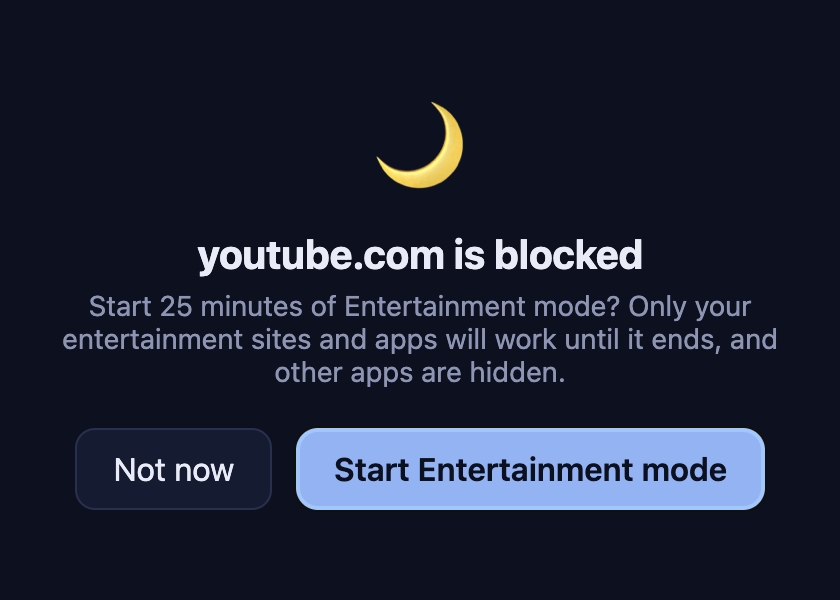
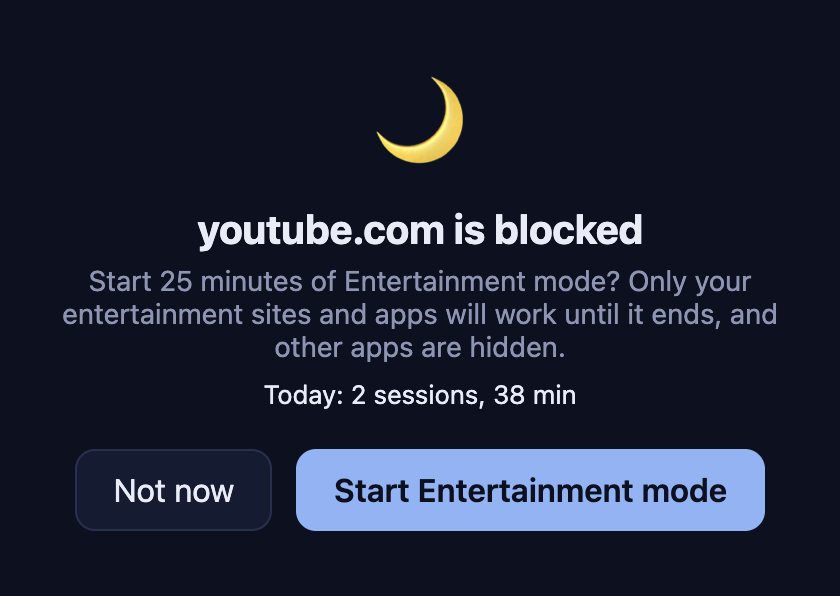
feat: show today's Entertainment mode stats in its window
Logs each Entertainment mode session (today only, trimmed when ended early) and shows
today's session count and minutes in the offer and notice windows. Version 1.7.0.

diff --git a/src/main.js b/src/main.js
@@ -66,6 +66,7 @@ let state = {
   pomodoro: null,
   pomodoroSummary: null,
   pomodoroLog: [],
+  sessionLog: [],
 };
 let history = [];
 let attempts = unlock.NO_FAILURES;
@@ -537,7 +538,7 @@ const showBlockedWindow = (query) => {
   blockedWindow?.destroy();
   blockedWindow = new BrowserWindow({
     width: 420,
-    height: 300,
+    height: 330,
     title: 'Focus',
     resizable: false,
     minimizable: false,
@@ -552,10 +553,21 @@ const showBlockedWindow = (query) => {
   app.focus({ steal: true });
 };
 
+const sessionStatsQuery = () => {
+  const { sessions, minutes } = blocklist.sessionStats(state.sessionLog, Date.now());
+  return { todaySessions: String(sessions), todayMinutes: String(minutes) };
+};
+
 const offerSession = (name, appPath = null) => {
   if (name !== blocklist.KID_SITE) {
     sessionOffer = { kind: 'session', appPath };
-    showBlockedWindow({ kind: 'offer', mode: 'session', name, minutes: String(blocklist.SESSION_MS / 60000) });
+    showBlockedWindow({
+      kind: 'offer',
+      mode: 'session',
+      name,
+      minutes: String(blocklist.SESSION_MS / 60000),
+      ...sessionStatsQuery(),
+    });
   } else if (blocklist.kidModeAvailable(new Date(), state.kidUsedAt)) {
     sessionOffer = { kind: 'kid', appPath };
     showBlockedWindow({ kind: 'offer', mode: 'kid', name, minutes: String(blocklist.KID_SESSION_MS / 60000) });
@@ -572,7 +584,9 @@ const startSession = () => {
   updateState({
     sessionUntil: now + durationMs,
     sessionKind: kind,
-    ...(kind === 'kid' ? { kidUsedAt: now } : {}),
+    ...(kind === 'kid'
+      ? { kidUsedAt: now }
+      : { sessionLog: blocklist.logSession(state.sessionLog, now, now + durationMs) }),
   });
   if (appPath) run('open', [appPath]).catch(() => {});
   sessionOffer = null;
@@ -581,7 +595,7 @@ const startSession = () => {
 
 const endSession = () => {
   const kid = isKidSession();
-  updateState({ sessionUntil: 0 });
+  updateState({ sessionUntil: 0, ...(kid ? {} : { sessionLog: blocklist.endSessionLog(state.sessionLog, Date.now()) }) });
   offersPaused = true;
   notify(kid ? 'Kid mode is over for today.' : 'Entertainment mode is over. Your entertainment sites and apps are blocked again.');
   tick();
@@ -602,7 +616,12 @@ const hideOtherApps = async () => {
   if (!hidden.length) return;
   updateState({ hiddenApps: [...new Set([...state.hiddenApps, ...hidden])] });
   const minutes = blocklist.sessionMinutesLeft(Date.now(), state.sessionUntil);
-  showBlockedWindow({ kind: 'notice', mode: state.sessionKind, minutes: String(minutes) });
+  showBlockedWindow({
+    kind: 'notice',
+    mode: state.sessionKind,
+    minutes: String(minutes),
+    ...(isKidSession() ? {} : sessionStatsQuery()),
+  });
 };
 
 // Each browser asks once for Automation permission; until it is granted the script fails and is skipped.

diff --git a/test/blocklist.test.js b/test/blocklist.test.js
@@ -17,6 +17,9 @@ const {
   isSessionActive,
   kidModeAvailable,
   sessionMinutesLeft,
+  logSession,
+  endSessionLog,
+  sessionStats,
   runningApps,
   blockedProcesses,
   runningBrowsers,
@@ -278,3 +281,19 @@ test('unhideAppsScript unhides only the named apps that are still hidden', () =>
   assert.deepEqual(apps.map((a) => a.hidden), [false, true, false]);
 });
 
+
+test('session log keeps today, trims early ends and sums minutes used', () => {
+  const at = (day, hour, minute = 0) => new Date(2026, 9, day, hour, minute).getTime();
+  const yesterday = logSession([], at(24, 21), at(24, 21, 25));
+  const log = logSession(yesterday, at(25, 10), at(25, 10, 25));
+  assert.deepEqual(log, [{ start: at(25, 10), end: at(25, 10, 25) }]);
+
+  const ended = endSessionLog(log, at(25, 10, 10));
+  assert.deepEqual(ended, [{ start: at(25, 10), end: at(25, 10, 10) }]);
+  assert.deepEqual(endSessionLog(log, at(25, 11)), log);
+
+  const withActive = logSession(ended, at(25, 12), at(25, 12, 25));
+  assert.deepEqual(sessionStats(withActive, at(25, 12, 5)), { sessions: 2, minutes: 15 });
+  assert.deepEqual(sessionStats(withActive, at(26, 9)), { sessions: 0, minutes: 0 });
+  assert.deepEqual(sessionStats([], at(25, 9)), { sessions: 0, minutes: 0 });
+});

diff --git a/src/blocklist.js b/src/blocklist.js
@@ -123,6 +123,19 @@ const kidModeAvailable = (now, kidUsedAt) => !kidUsedAt || new Date(kidUsedAt).t
 
 const sessionMinutesLeft = (now, sessionUntil) => Math.max(0, Math.ceil((sessionUntil - now) / 60000));
 
+const sameDay = (a, b) => new Date(a).toDateString() === new Date(b).toDateString();
+
+const logSession = (log, start, end) => [...log.filter((entry) => sameDay(entry.start, start)), { start, end }];
+
+const endSessionLog = (log, now) =>
+  log.map((entry, i) => (i === log.length - 1 ? { ...entry, end: Math.min(entry.end, now) } : entry));
+
+const sessionStats = (log, now) => {
+  const today = log.filter((entry) => sameDay(entry.start, now));
+  const usedMs = today.reduce((sum, entry) => sum + Math.max(0, Math.min(entry.end, now) - entry.start), 0);
+  return { sessions: today.length, minutes: Math.round(usedMs / 60000) };
+};
+
 const runningApps = (psOutput) =>
   psOutput
     .split('\n')
@@ -247,6 +260,9 @@ module.exports = {
   isSessionActive,
   kidModeAvailable,
   sessionMinutesLeft,
+  logSession,
+  endSessionLog,
+  sessionStats,
   runningApps,
   blockedProcesses,
   runningBrowsers,

diff --git a/test/config.test.js b/test/config.test.js
@@ -205,6 +205,7 @@ test('store round-trips config, state and history', () => {
     pomodoro: null,
     pomodoroSummary: null,
     pomodoroLog: [],
+    sessionLog: [],
   });
   assert.deepEqual(store.loadHistory(), []);
   store.saveHistory([{ type: 'grace', at: 1 }]);
@@ -213,7 +214,7 @@ test('store round-trips config, state and history', () => {
   store.saveConfig(configured());
   assert.deepEqual(store.loadConfig(), configured());
 
-  const saved = { bypassUntil: 123, graceUsedAt: 45, trackingSince: 6, sessionUntil: 7, sessionKind: 'kid', kidUsedAt: 8, hiddenApps: ['Notes'], pomodoro: null, pomodoroSummary: null, pomodoroLog: [] };
+  const saved = { bypassUntil: 123, graceUsedAt: 45, trackingSince: 6, sessionUntil: 7, sessionKind: 'kid', kidUsedAt: 8, hiddenApps: ['Notes'], pomodoro: null, pomodoroSummary: null, pomodoroLog: [], sessionLog: [] };
   store.saveState(saved);
   assert.deepEqual(store.loadState(), saved);
   fs.rmSync(dir, { recursive: true });

diff --git a/src/renderer/blocked.js b/src/renderer/blocked.js
@@ -17,6 +17,15 @@ document.getElementById('start').textContent = kid ? 'Start Kid mode' : 'Start E
 document.getElementById('notice-title').textContent = kid ? 'Kid mode' : 'Entertainment mode';
 document.getElementById('notice-text').textContent = noticeText;
 
+if (!kid && params.has('todaySessions')) {
+  const sessions = Number(params.get('todaySessions'));
+  const plural = sessions === 1 ? 'session' : 'sessions';
+  document.querySelectorAll('.stats').forEach((el) => {
+    el.textContent = `Today: ${sessions} ${plural}, ${params.get('todayMinutes')} min`;
+    el.classList.remove('hidden');
+  });
+}
+
 document.getElementById('not-now').addEventListener('click', () => window.close());
 document.querySelectorAll('.close').forEach((button) => button.addEventListener('click', () => window.close()));
 document.getElementById('start').addEventListener('click', async () => {

diff --git a/src/renderer/blocked.html b/src/renderer/blocked.html
@@ -12,6 +12,7 @@
       <section class="hidden" id="offer">
         <h1><span class="name"></span> is blocked</h1>
         <p class="muted" id="offer-text"></p>
+        <p class="stats hidden"></p>
         <div class="actions">
           <button type="button" id="not-now">Not now</button>
           <button type="button" class="primary" id="start" autofocus></button>
@@ -20,6 +21,7 @@
       <section class="hidden" id="notice">
         <h1 id="notice-title"></h1>
         <p class="muted" id="notice-text"></p>
+        <p class="stats hidden"></p>
         <button type="button" class="primary close">OK</button>
       </section>
       <section class="hidden" id="used">

diff --git a/src/renderer/styles.css b/src/renderer/styles.css
@@ -158,6 +158,7 @@ textarea:focus { outline: 2px solid var(--accent); outline-offset: 1px; }
 .blocked .moon { font-size: 44px; }
 .blocked h1 { font-size: 20px; margin: 12px 0 6px; }
 .blocked p { margin: 0 0 20px; font-size: 14px; }
+.blocked .stats { margin-top: -12px; font-size: 13px; color: var(--text); }
 .blocked .actions { display: flex; gap: 12px; justify-content: center; }
 .blocked form input { width: 120px; text-align: center; }
 .blocked form .error { min-height: 18px; margin: 8px 0 12px; font-size: 13px; }

diff --git a/src/store.js b/src/store.js
@@ -33,6 +33,7 @@ const createStore = (dir) => {
       pomodoro: null,
       pomodoroSummary: null,
       pomodoroLog: [],
+      sessionLog: [],
       ...readJson(stateFile),
     }),
     saveState: (state) => writeJson(stateFile, state),

diff --git a/AGENTS.md b/AGENTS.md
@@ -117,6 +117,8 @@ npm run dist     # unsigned macOS .dmg in dist/ (CSC_IDENTITY_AUTO_DISCOVERY=fal
   (`unhideAppsScript`). Hiding shows `blocked.html?kind=session`. App activation triggers
   enforcement immediately during a session. **End Entertainment Mode** in the tray ends it early. While a mode or a sleep-hours unlock is active the tray
   title shows the time left until whichever ends first (`countdownEnd`), refreshed every second by `updateTrayTitle`. No limit on sessions.
+  Entertainment sessions are logged in `state.sessionLog` (today only, `logSession`; ending early trims the last entry,
+  `endSessionLog`), and the offer and notice windows show today's count and minutes (`sessionStats`). Kid mode isn't logged.
 - **Kid mode** is a session kind (`state.sessionKind: 'kid'`): `KID_SITE` (stick.cafe) is always added to the blocked
   sites (`blockingSites`), and hitting it offers `KID_SESSION_MS` (31 min) where only that site, browsers and Focus
   are allowed (`sessionRules`). It works once per calendar day (`kidModeAvailable(now, state.kidUsedAt)`, recorded at

diff --git a/README.md b/README.md
@@ -35,7 +35,8 @@ List entertainment websites and apps in Settings and they're blocked at all time
 subdomains) switch to a "blocked" page in Safari, Chrome, Brave, Edge, Arc, Vivaldi and Chromium, and blocked apps are
 quit as soon as they start. When you hit one, Focus offers 25 minutes of Entertainment mode: only your entertainment
 sites and apps work, other pages switch to an "Entertainment mode" page and other apps are hidden. When it ends, tabs
-go back to their pages and hidden apps reappear.
+go back to their pages and hidden apps reappear. The offer and in-session notice show today's Entertainment mode
+sessions and minutes used.
 
 <br clear="right" />
 

diff --git a/CHANGELOG.md b/CHANGELOG.md
@@ -3,6 +3,12 @@
 All notable changes to this project are documented here. The format follows
 [Keep a Changelog](https://keepachangelog.com/en/1.1.0/), and versions follow [Semantic Versioning](https://semver.org).
 
+## [1.7.0] - 2026-10-25
+
+### Added
+
+- Entertainment mode window shows today's sessions and minutes used in Entertainment mode.
+
 ## [1.6.2] - 2026-10-22
 
 ### Fixed
